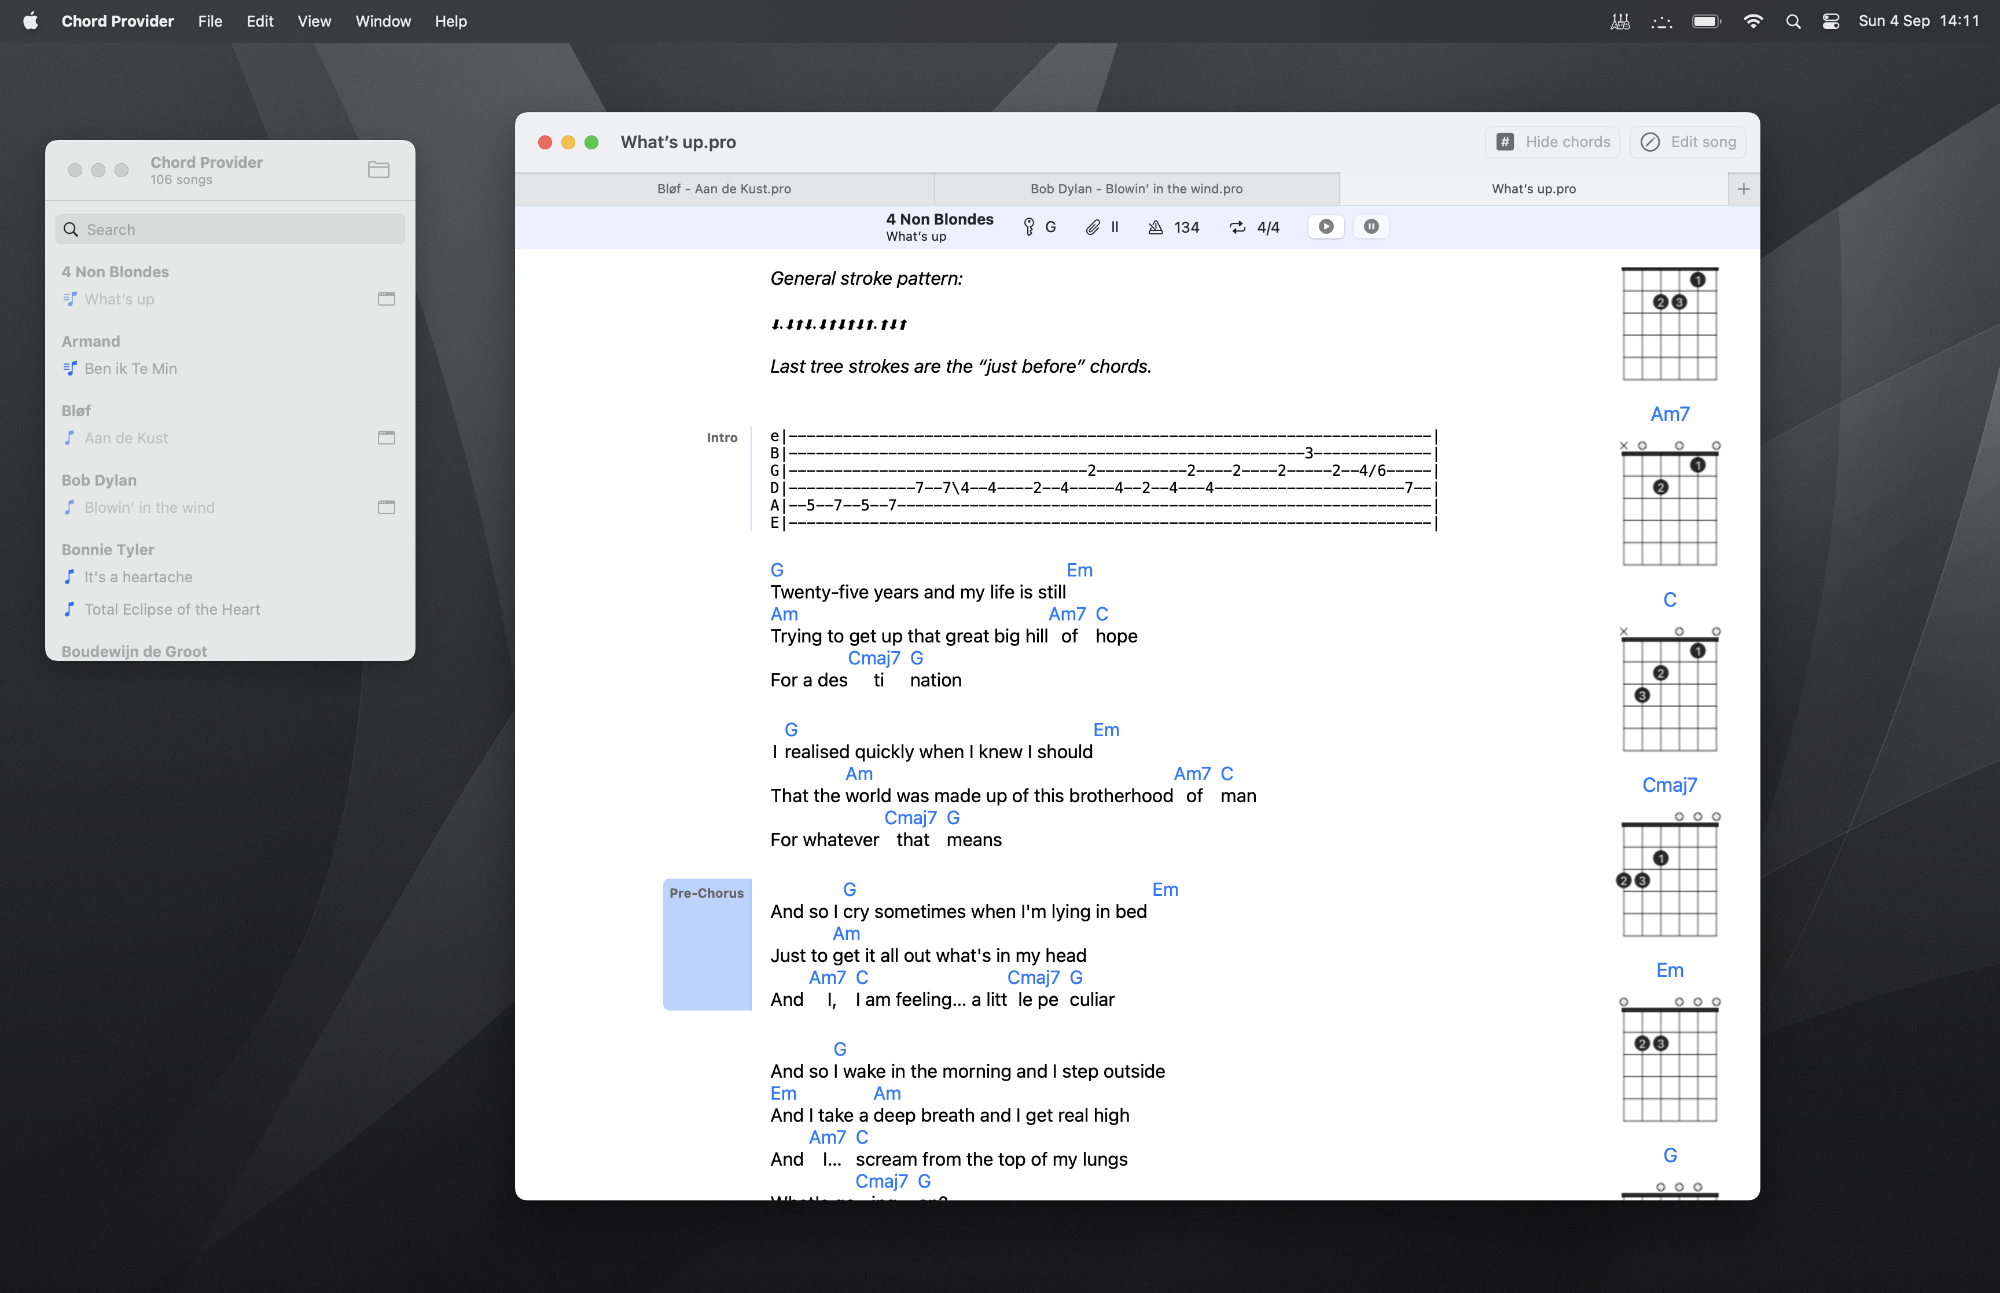
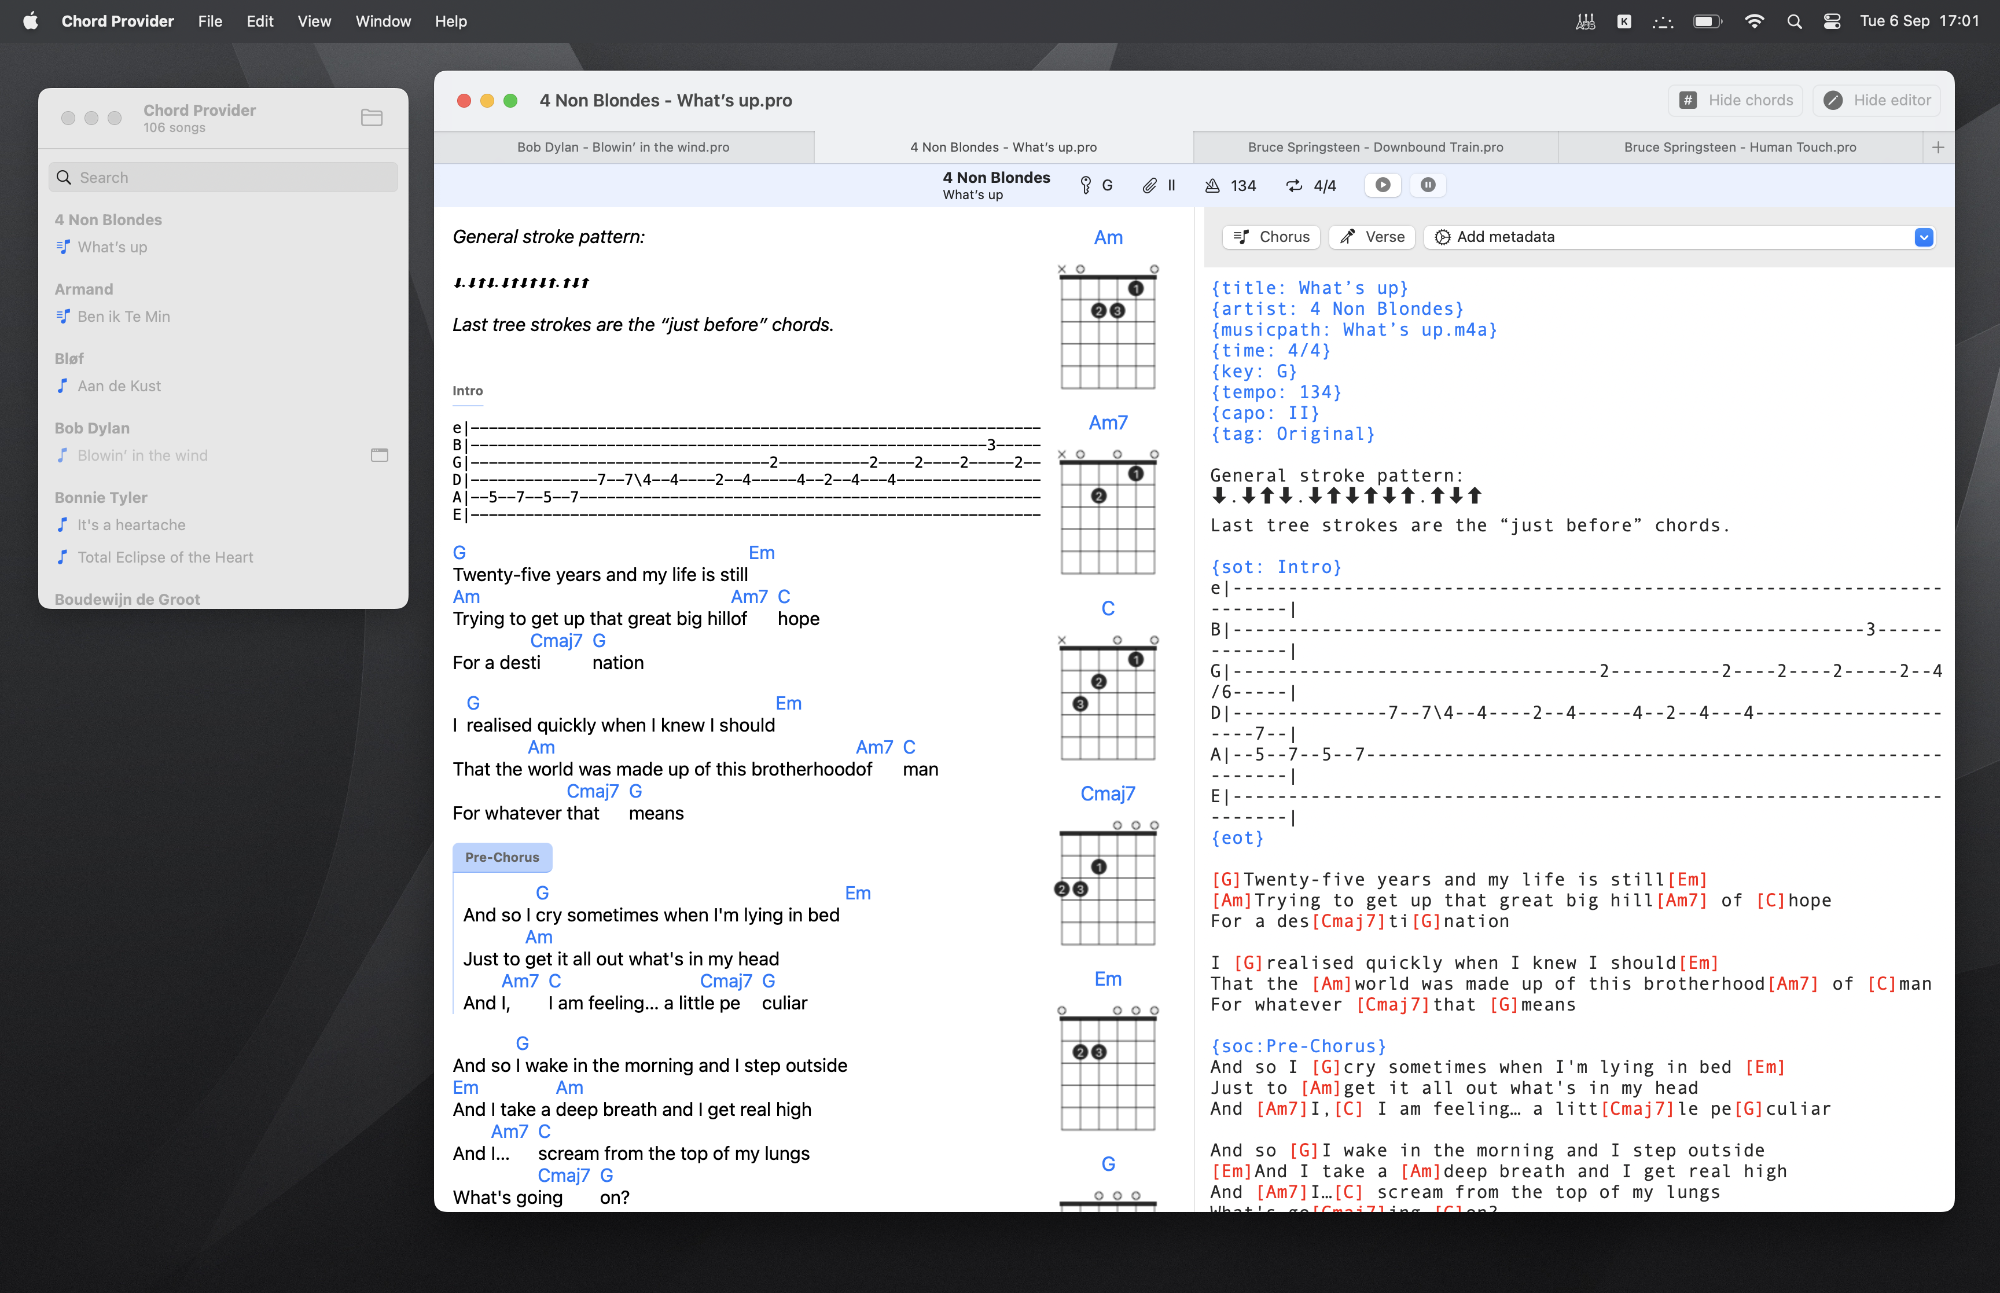
Add a rich text editor for macOS

Changed region(s): [[0.0, 0.0, 0.992, 0.959], [0.713, 0.2475, 0.744, 0.2784], [0.62, 0.5568, 0.651, 0.5878]]

diff --git a/Chord Provider/macOS/Editor/EditorView.swift b/Chord Provider/macOS/Editor/EditorView.swift
@@ -1,0 +1,74 @@
+//
+//  EditorView.swift
+//  Chord Provider
+//
+//  © 2022 Nick Berendsen
+//
+
+import SwiftUI
+import HighlightedTextEditor
+
+/// The View with the `HighlightedTextEditor`
+struct EditorView: View {
+    /// The CordPro document
+    @Binding var document: ChordProDocument
+    /// The actuals NSTextView
+    @State private var textView: NSTextView?
+    /// The highlight rules
+    private let rules: [HighlightRule] = [
+        HighlightRule(pattern: ChordPro.chordsRegex!, formattingRules: [
+            TextFormattingRule(key: .foregroundColor, value: NSColor.red)
+        ]),
+        HighlightRule(pattern: ChordPro.directiveRegex!, formattingRules: [
+            TextFormattingRule(key: .foregroundColor, value: NSColor.controlAccentColor)
+        ]),
+        HighlightRule(pattern: ChordPro.directiveEmptyRegex!, formattingRules: [
+            TextFormattingRule(key: .foregroundColor, value: NSColor.controlAccentColor)
+        ])
+    ]
+    /// The View
+    var body: some View {
+        VStack {
+            toolbar
+            editor
+        }
+    }
+    /// The editor
+    var editor :some View {
+        HighlightedTextEditor(text: $document.text, highlightRules: rules)
+            .introspect(callback: { editor in
+                Task { @MainActor in
+                    self.textView = editor.textView
+                }
+            })
+    }
+    /// The Toolbar
+    var toolbar: some View {
+        HStack {
+            Button(action: {
+                EditorController.format(&document, with: .chorus, in: textView)
+            }, label: {
+                Label("Chorus", systemImage: "music.note.list")
+            })
+            Button(action: {
+                EditorController.format(&document, with: .verse, in: textView)
+            }, label: {
+                Label("Verse", systemImage: "music.mic")
+            })
+            Menu(
+                content: {
+                    Button(action: {
+                        EditorController.format(&document, with: .comment, in: textView)
+                    }, label: {
+                        Label("Add a comment...", systemImage: "cloud")
+                    })
+            }, label: {
+                Label("Add metadata", systemImage: "gear")
+            })
+
+        }
+        .labelStyle(.titleAndIcon)
+        .padding()
+        .background(Color(nsColor: .windowBackgroundColor))
+    }
+}

diff --git a/Chord Provider/macOS/Editor/ChordProFormatter.swift b/Chord Provider/macOS/Editor/ChordProFormatter.swift
@@ -1,0 +1,45 @@
+//
+//  ChordProFormatter.swift
+//  Chord Provider
+//
+//  © 2022 Nick Berendsen
+//
+// Many thanks for https://github.com/dbarsamian/conscriptor
+
+import Foundation
+
+struct ChordProFormatter {
+    /// Enumeration of supported syntax that can be formatted by the ChordProFormatter.
+    enum Formatting: String, CaseIterable {
+        case chorus = "{soc}\n"
+        case verse = "{sov}\n"
+        case comment = "{comment: "
+        /// The start of the format
+        var start: String {
+            self.rawValue
+        }
+        /// The end of the format
+        var end: String {
+            switch self {
+            case .chorus:
+                return "\n{eoc}\n"
+            case .verse:
+                return "\n{eov}\n"
+            case .comment:
+                return "}"
+            }
+        }
+    }
+
+    /// Returns a string that has been reformatted based on the given ChordPro style.
+    /// - Parameter string: The string to format.
+    /// - Parameter style: The ChordPro syntax to apply or remove.
+    static func format(_ string: String, style: Formatting) -> String {
+        dump(string)
+        var formattedString = ""
+            formattedString = string
+            formattedString.insert(contentsOf: style.start, at: formattedString.startIndex)
+            formattedString.append(style.end)
+        return formattedString
+    }
+}

diff --git a/Chord Provider/macOS/Editor/EditorController.swift b/Chord Provider/macOS/Editor/EditorController.swift
@@ -1,0 +1,34 @@
+//
+//  EditorController.swift
+//  Chord Provider
+//
+//  © 2022 Nick Berendsen
+//
+// Many thanks for https://github.com/dbarsamian/conscriptor
+
+import Foundation
+import AppKit
+
+struct EditorController {
+    /// Iterates over all selected ranges in a `textView`, applying  a `style`
+    /// - Parameters:
+    ///     - document: The `ConscriptorDocument` to update
+    ///     - style: The `MarkdownFormatter.Formatting` style to apply or remove
+    ///     - textView: The `NSTextView` to update
+    public static func format(
+        _ document: inout ChordProDocument,
+        with style: ChordProFormatter.Formatting,
+        in textView: NSTextView?
+    ) {
+        guard let textView = textView else {
+            return
+        }
+        let ranges = textView.selectedRanges.map { $0.rangeValue }
+        for range in ranges {
+            let selection = document.text[Range(range)!]
+            let replacement = ChordProFormatter.format(selection, style: style)
+            textView.insertText(replacement, replacementRange: range)
+        }
+        document.text = textView.string
+    }
+}

diff --git a/Chord Provider/Extensions/String.swift b/Chord Provider/Extensions/String.swift
@@ -1,0 +1,35 @@
+//
+//  String.swift
+//  Chord Provider
+//
+//  © 2022 Nick Berendsen
+//
+//  From: https://stackoverflow.com/questions/24092884/get-nth-character-of-a-string-in-swift-programming-language/38215613#38215613
+
+import Foundation
+
+extension String {
+    var length: Int {
+        return count
+    }
+
+    subscript(index: Int) -> String {
+        return self[index ..< index + 1]
+    }
+
+    func substring(fromIndex: Int) -> String {
+        return self[min(fromIndex, length) ..< length]
+    }
+
+    func substring(toIndex: Int) -> String {
+        return self[0 ..< max(0, toIndex)]
+    }
+
+    subscript(intRange: Range<Int>) -> String {
+        let range = Range(uncheckedBounds: (lower: max(0, min(length, intRange.lowerBound)),
+                                            upper: min(length, max(0, intRange.upperBound))))
+        let start = index(startIndex, offsetBy: range.lowerBound)
+        let end = index(start, offsetBy: range.upperBound - range.lowerBound)
+        return String(self[start ..< end])
+    }
+}

diff --git a/Chord Provider/Parser/ChordPro.swift b/Chord Provider/Parser/ChordPro.swift
@@ -17,7 +17,7 @@ struct ChordPro {
     
     // MARK: - Regex definitions
     /// The regex for directives with a value, {title: lalala} for example.
-    static let directiveRegex = try? NSRegularExpression(pattern: "\\{(\\w*):([^%]*)\\}")
+    static let directiveRegex = try? NSRegularExpression(pattern: "\\{(\\w*):([[^}]]*)\\}")
     /// The regex for directives without a value, {soc} for example.
     static let directiveEmptyRegex = try? NSRegularExpression(pattern: "\\{(\\w*)\\}")
     /// The regex for chord defines:
@@ -30,7 +30,7 @@ struct ChordPro {
     static let chordsRegex = try? NSRegularExpression(pattern: "\\[([\\w#b\\/]+)\\]?", options: .caseInsensitive)
     
     // MARK: - func: parse; called to parse a whole song
-    static func parse(document: ChordProDocument, file: URL?) -> Song {
+    static func parse(document: ChordProDocument, file: URL?) async -> Song {
         /// Start with a fresh song
         var song = Song()
         /// Add the path

diff --git a/Chord Provider/Parser/Song.swift b/Chord Provider/Parser/Song.swift
@@ -42,16 +42,14 @@ struct SongViewModifier: ViewModifier {
                 if document.text == ChordProDocument.newText {
                     showEditor = true
                 }
-                song = ChordPro.parse(document: document, file: file ?? nil)
+                song = await ChordPro.parse(document: document, file: file ?? nil)
             }
             .onChange(of: document.text) { _ in
                 Task {
                     await document.buildSongDebouncer.submit {
-                        song = ChordPro.parse(document: document, file: file ?? nil)
+                        song = await ChordPro.parse(document: document, file: file ?? nil)
                     }
                 }
-                
-                //song = ChordPro.parse(document: document, file: file ?? nil)
             }
     }
 }

diff --git a/Chord Provider/iOS/EditorView.swift b/Chord Provider/iOS/EditorView.swift
@@ -7,14 +7,11 @@
 
 import SwiftUI
 
-/// The View with the text editor
-///
-/// SwiftUI does not give too many options for it.
 struct EditorView: View {
     @Binding var document: ChordProDocument
     var body: some View {
         TextEditor(text: $document.text)
-            .font(.custom("HelveticaNeue", size: 18))
+            .font(.custom("Andale Mono", size: 18))
             .lineSpacing(5)
             .padding()
     }

diff --git a/Chord Provider/SharedViews/SongView.swift b/Chord Provider/SharedViews/SongView.swift
@@ -16,7 +16,7 @@ struct SongView: View {
     var body: some View {
         HStack {
             HtmlView(html: (song.html ?? ""))
-            if showChords && !showEditor {
+            if showChords {
                 ChordsView(song: song)
                     .transition(.opacity)
             }

diff --git a/Chord Provider/macOS/ContentView.swift b/Chord Provider/macOS/ContentView.swift
@@ -28,7 +28,6 @@ struct ContentView: View {
                     Divider()
                     EditorView(document: $document)
                         .frame(minWidth: 400)
-                        .transition(.scale)
                 }
             }
         }

diff --git a/README.md b/README.md
@@ -26,6 +26,13 @@ The iOS app makes an iCloud folder named "Chord Provider"; that's where your son
 
 Stole code (and ideas) from:
 
-[songpro-swift](https://github.com/SongProOrg/songpro-swift)
+- [SongPro for Swift](https://github.com/SongProOrg/songpro-swift)
+- [Conscriptor](https://github.com/dbarsamian/conscriptor)
+
+### Used packages
 
 The chord diagrams are made with [Swifty Guitar Chords](https://github.com/BeauNouvelle/SwiftyGuitarChords)
+
+The macOS editor is my fork of [HighlightedTextEditor](https://github.com/kyle-n/HighlightedTextEditor)
+
+> I use a custom font for the editor because my poor eyes are too old :-)
